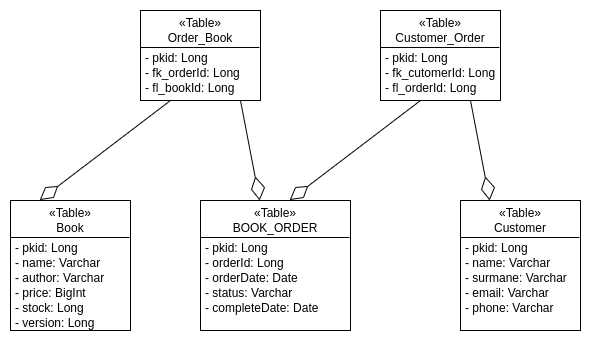
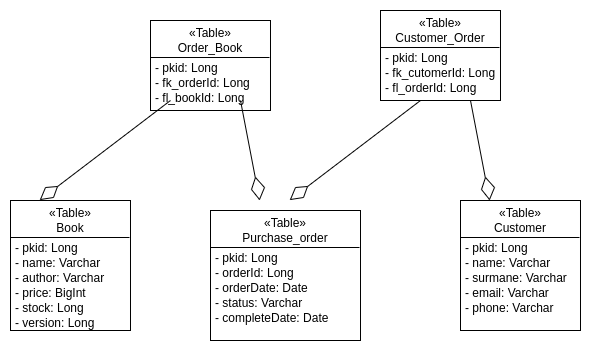
data model updated ( table rename ) default values added on DB tables bug fix on CustomerOrderRepository

diff --git a/src/main/java/com/birkan/rig/DistConfiguration.java b/src/main/java/com/birkan/rig/DistConfiguration.java
@@ -1,0 +1,24 @@
+package com.birkan.rig;
+
+import org.slf4j.Logger;
+import org.slf4j.LoggerFactory;
+import org.springframework.beans.factory.InjectionPoint;
+import org.springframework.context.annotation.Bean;
+import org.springframework.context.annotation.ComponentScan;
+import org.springframework.context.annotation.Configuration;
+import org.springframework.context.annotation.Scope;
+import org.springframework.stereotype.Component;
+
+@Component
+@Configuration
+@ComponentScan(value = "com.birkan.rig")
+public class DistConfiguration {
+
+    @Bean
+    @Scope("prototype")
+    public Logger logger(InjectionPoint injectionPoint) {
+        Class<?> targetClass = injectionPoint.getMember().getDeclaringClass();
+        return LoggerFactory.getLogger(targetClass);
+    }
+
+}

diff --git a/src/main/java/com/birkan/rig/Application.java b/src/main/java/com/birkan/rig/Application.java
@@ -2,13 +2,18 @@ package com.birkan.rig;
 
 import org.springframework.boot.SpringApplication;
 import org.springframework.boot.autoconfigure.SpringBootApplication;
+import org.springframework.boot.autoconfigure.domain.EntityScan;
+import org.springframework.data.jpa.repository.config.EnableJpaRepositories;
 
-@SpringBootApplication
+@SpringBootApplication(scanBasePackages = "com.birkan")
+@EntityScan("com.birkan")
+@EnableJpaRepositories("com.birkan")
 public class Application {
 
     public static void main(String[] args) {
         SpringApplication.run(Application.class, args);
 
         System.out.println("Hello World!");
+
     }
 }

diff --git a/src/main/java/com/birkan/rig/entity/OrderBook.java b/src/main/java/com/birkan/rig/entity/OrderBook.java
@@ -17,8 +17,8 @@ public class OrderBook {
     private Long pkid;
 
     @ManyToOne(fetch = FetchType.EAGER)
-    @JoinColumn(referencedColumnName = "PKID", name = "FK_CUSTOMERID")
-    private Customer customer;
+    @JoinColumn(referencedColumnName = "PKID", name = "FK_ORDERID")
+    private Order order;
 
     @ManyToOne(fetch = FetchType.EAGER)
     @JoinColumn(referencedColumnName = "PKID", name = "FK_BOOKID")

diff --git a/src/main/java/com/birkan/rig/repository/CustomerOrderRepository.java b/src/main/java/com/birkan/rig/repository/CustomerOrderRepository.java
@@ -1,7 +1,8 @@
 package com.birkan.rig.repository;
 
+import com.birkan.rig.entity.CustomerOrder;
 import org.springframework.data.jpa.repository.JpaRepository;
 
-public interface CustomerOrderRepository extends JpaRepository<CustomerOrderRepository, Long> {
+public interface CustomerOrderRepository extends JpaRepository<CustomerOrder, Long> {
 
 }

diff --git a/src/main/java/com/birkan/rig/entity/Order.java b/src/main/java/com/birkan/rig/entity/Order.java
@@ -8,7 +8,7 @@ import javax.persistence.*;
 import java.sql.Date;
 
 @Entity
-@Table(name = "BOOK_ORDER")
+@Table(name = "PURCHASE_ORDER")
 @Data
 @NoArgsConstructor
 public class Order {

diff --git a/README.md b/README.md
@@ -2,7 +2,7 @@
 
 **Data Model**
 
-Table "Stock" not created, **optimistic lock** will be used in **Book** class to handle stock and transaction safety
+Table "Stock" not created, **optimistic lock** will be used in **Book** class to handle stock, Moreover it will help prevent multi transaction at the same time on single book.
 
 No password will be stored in **Customer** table all login request with stored email will be accepted and JWT token will returned
 
@@ -11,4 +11,15 @@ No password will be stored in **Customer** table all login request with stored e
 Github's "Issues" and "Action" mechanism used
 
 **Test**
+
 Standart methods on repositories are not tested.
+
+
+**Database**
+
+in memory H2 database is used
+ 
+Hint: 
+
+jdbcUrl: jdbc:h2:mem:testdb
+console Address: http://localhost:8080/h2-console
